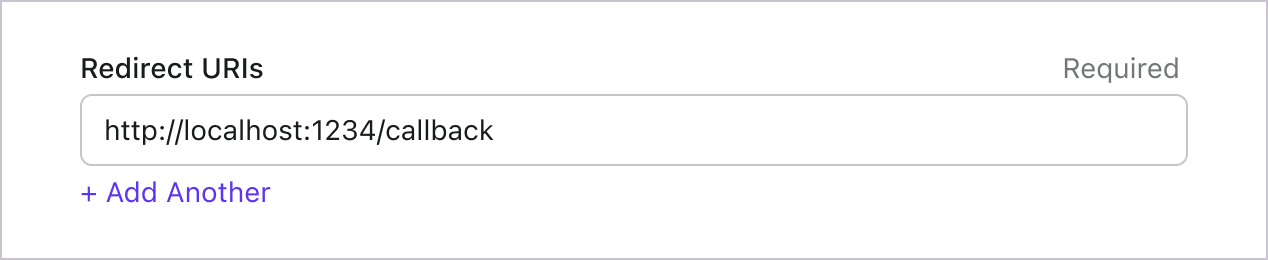
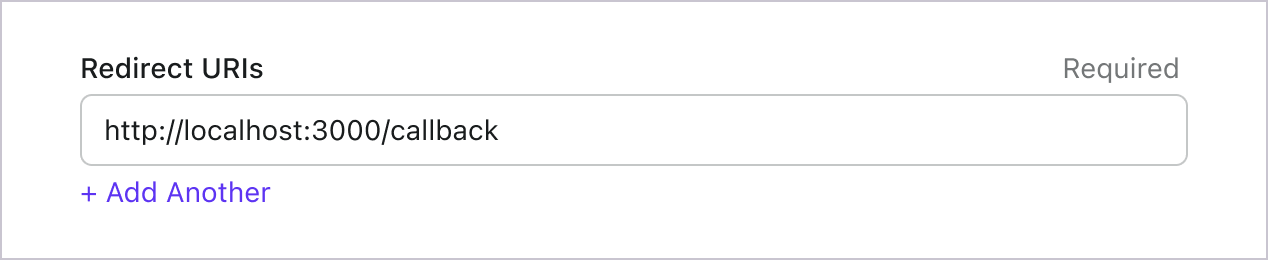
chore: update app running port to 3000 and remove "React" from web-assuming-uri

Changed region(s): [[0.2461, 0.4615, 0.3998, 0.5538]]

diff --git a/i18n/zh-cn/docusaurus-plugin-content-docs/current/docs/recipes/integrate-logto/fragments/_web-sign-out-note.md b/i18n/zh-cn/docusaurus-plugin-content-docs/current/docs/recipes/integrate-logto/fragments/_web-sign-out-note.md
@@ -1,3 +1,3 @@
 调用 `.signOut()` 将清理内存与 localStorage 中的所有 Logto 数据（如果有）。
 
-在退出登录后，让你的用户重新回到你的网站是个不错的选择。让我们将 `http://localhost:1234` 添加至「管理控制台」里的 Post Sign-out URIs 中（位于 Redirect URIs 下方），并将其作为调用 `.signOut()` 的参数。
+在退出登录后，让你的用户重新回到你的网站是个不错的选择。让我们将 `http://localhost:3000` 添加至「管理控制台」里的 Post Sign-out URIs 中（位于 Redirect URIs 下方），并将其作为调用 `.signOut()` 的参数。

diff --git a/docs/docs/recipes/integrate-logto/fragments/_web-sign-out-note.md b/docs/docs/recipes/integrate-logto/fragments/_web-sign-out-note.md
@@ -1,3 +1,3 @@
 Calling `.signOut()` will clear all the Logto data in memory and localStorage if they exist.
 
-After signing out, it'll be great to redirect your user back to your website. Let's add `http://localhost:1234` as one of the Post Sign-out URIs in Admin Console (shows under Redirect URIs), and use the URL as the parameter when calling `.signOut()`.
+After signing out, it'll be great to redirect your user back to your website. Let's add `http://localhost:3000` as one of the Post Sign-out URIs in Admin Console (shows under Redirect URIs), and use the URL as the parameter when calling `.signOut()`.

diff --git a/i18n/zh-cn/docusaurus-plugin-content-docs/current/docs/recipes/integrate-logto/fragments/_web-assuming-url.md b/i18n/zh-cn/docusaurus-plugin-content-docs/current/docs/recipes/integrate-logto/fragments/_web-assuming-url.md
@@ -1,3 +1,3 @@
 :::tip
-在如下代码示例中, 我们均先假设你的 React 应用运行在 `http://localhost:1234` 上。
+在如下代码示例中, 我们均先假设你的应用运行在 `http://localhost:3000` 上。
 :::

diff --git a/docs/docs/recipes/integrate-logto/fragments/_web-assuming-url.md b/docs/docs/recipes/integrate-logto/fragments/_web-assuming-url.md
@@ -1,3 +1,3 @@
 :::note
-In the following code snippets, we assume your app is running on `http://localhost:1234`.
+In the following code snippets, we assume your app is running on `http://localhost:3000`.
 :::
